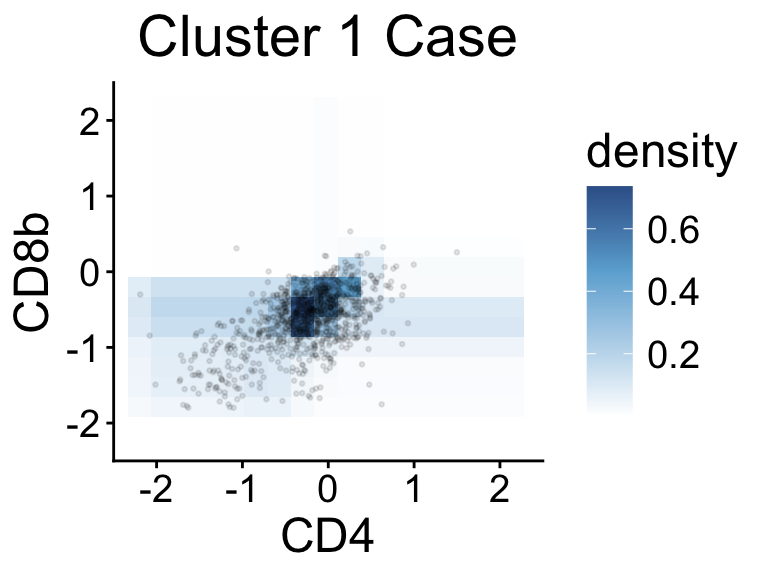
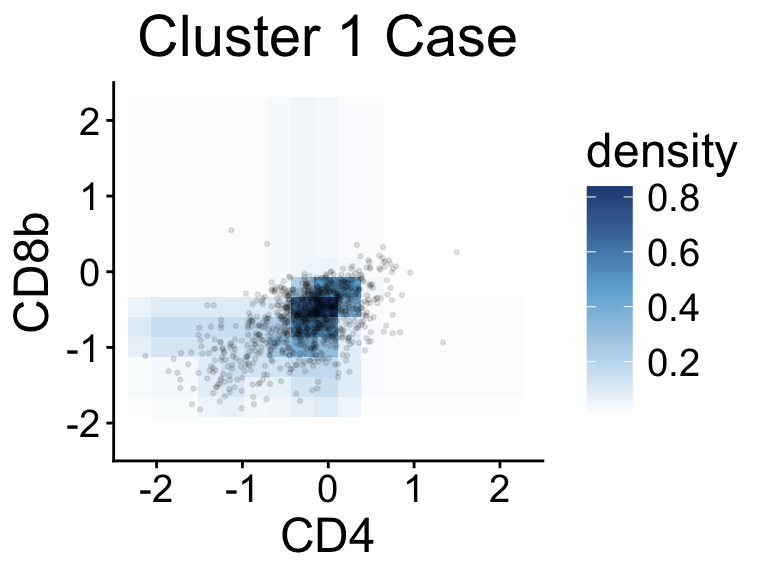
knit gvhd file

Changed region(s): [[0.1562, 0.4375, 0.6875, 0.75], [0.8438, 0.3125, 0.9062, 0.5625], [0.8438, 0.5938, 0.9062, 0.6562]]

diff --git a/GvHD.html b/GvHD.html
@@ -142,7 +142,7 @@ window.Quarto = {
 </div>
 <p>We compute the adaptive Beta-trees histogram at 80% confidence level for the GvHD positive and control individuals. We set a seed to keep our results consistent.</p>
 <div class="cell">
-<div class="sourceCode cell-code" id="cb3"><pre class="sourceCode r code-with-copy"><code class="sourceCode r"><span id="cb3-1"><a href="#cb3-1" aria-hidden="true" tabindex="-1"></a><span class="fu">set.seed</span>(<span class="dv">20</span>)</span></code><button title="Copy to Clipboard" class="code-copy-button"><i class="bi"></i></button></pre></div>
+<div class="sourceCode cell-code" id="cb3"><pre class="sourceCode r code-with-copy"><code class="sourceCode r"><span id="cb3-1"><a href="#cb3-1" aria-hidden="true" tabindex="-1"></a><span class="fu">set.seed</span>(<span class="dv">220</span>)</span></code><button title="Copy to Clipboard" class="code-copy-button"><i class="bi"></i></button></pre></div>
 </div>
 <div class="cell">
 <div class="sourceCode cell-code" id="cb4"><pre class="sourceCode r code-with-copy"><code class="sourceCode r"><span id="cb4-1"><a href="#cb4-1" aria-hidden="true" tabindex="-1"></a>alpha <span class="ot">&lt;-</span> <span class="fl">0.2</span></span>
@@ -177,7 +177,9 @@ window.Quarto = {
 </div>
 <div class="sourceCode cell-code" id="cb8"><pre class="sourceCode r code-with-copy"><code class="sourceCode r"><span id="cb8-1"><a href="#cb8-1" aria-hidden="true" tabindex="-1"></a><span class="fu">print</span>(case_lower)</span></code><button title="Copy to Clipboard" class="code-copy-button"><i class="bi"></i></button></pre></div>
 <div class="cell-output cell-output-stdout">
-<pre><code>[1] -0.36 -0.67 -0.79 -0.71</code></pre>
+<pre><code>      [,1]  [,2]  [,3]  [,4]
+[1,] -0.36 -0.64 -0.45 -0.46
+[2,]  0.00  0.16  0.23 -0.02</code></pre>
 </div>
 <div class="sourceCode cell-code" id="cb10"><pre class="sourceCode r code-with-copy"><code class="sourceCode r"><span id="cb10-1"><a href="#cb10-1" aria-hidden="true" tabindex="-1"></a><span class="fu">cat</span>(<span class="st">"Case upper:</span><span class="sc">\n</span><span class="st">"</span>)</span></code><button title="Copy to Clipboard" class="code-copy-button"><i class="bi"></i></button></pre></div>
 <div class="cell-output cell-output-stdout">
@@ -185,7 +187,9 @@ window.Quarto = {
 </div>
 <div class="sourceCode cell-code" id="cb12"><pre class="sourceCode r code-with-copy"><code class="sourceCode r"><span id="cb12-1"><a href="#cb12-1" aria-hidden="true" tabindex="-1"></a><span class="fu">print</span>(case_upper)</span></code><button title="Copy to Clipboard" class="code-copy-button"><i class="bi"></i></button></pre></div>
 <div class="cell-output cell-output-stdout">
-<pre><code>[1] -0.03 -0.39 -0.43 -0.46</code></pre>
+<pre><code>     [,1]  [,2]  [,3]  [,4]
+[1,] 0.00 -0.42 -0.17 -0.22
+[2,] 2.99  0.31  0.43  0.21</code></pre>
 </div>
 <div class="sourceCode cell-code" id="cb14"><pre class="sourceCode r code-with-copy"><code class="sourceCode r"><span id="cb14-1"><a href="#cb14-1" aria-hidden="true" tabindex="-1"></a><span class="fu">cat</span>(<span class="st">"Control lower: </span><span class="sc">\n</span><span class="st">"</span>)</span></code><button title="Copy to Clipboard" class="code-copy-button"><i class="bi"></i></button></pre></div>
 <div class="cell-output cell-output-stdout">
@@ -194,9 +198,9 @@ window.Quarto = {
 <div class="sourceCode cell-code" id="cb16"><pre class="sourceCode r code-with-copy"><code class="sourceCode r"><span id="cb16-1"><a href="#cb16-1" aria-hidden="true" tabindex="-1"></a><span class="fu">print</span>(control_lower)</span></code><button title="Copy to Clipboard" class="code-copy-button"><i class="bi"></i></button></pre></div>
 <div class="cell-output cell-output-stdout">
 <pre><code>      [,1]  [,2]  [,3]  [,4]
-[1,]  0.32  1.11 -1.42 -0.40
-[2,] -2.26 -1.82 -1.24 -0.35
-[3,] -1.05  0.47 -0.58 -1.54</code></pre>
+[1,] -0.14  0.75 -1.42 -0.67
+[2,] -2.26 -1.82 -0.96 -0.35
+[3,] -1.52 -1.82 -1.42  0.18</code></pre>
 </div>
 <div class="sourceCode cell-code" id="cb18"><pre class="sourceCode r code-with-copy"><code class="sourceCode r"><span id="cb18-1"><a href="#cb18-1" aria-hidden="true" tabindex="-1"></a><span class="fu">cat</span>(<span class="st">"Control upper:</span><span class="sc">\n</span><span class="st">"</span>)</span></code><button title="Copy to Clipboard" class="code-copy-button"><i class="bi"></i></button></pre></div>
 <div class="cell-output cell-output-stdout">
@@ -205,12 +209,12 @@ window.Quarto = {
 <div class="sourceCode cell-code" id="cb20"><pre class="sourceCode r code-with-copy"><code class="sourceCode r"><span id="cb20-1"><a href="#cb20-1" aria-hidden="true" tabindex="-1"></a><span class="fu">print</span>(control_upper)</span></code><button title="Copy to Clipboard" class="code-copy-button"><i class="bi"></i></button></pre></div>
 <div class="cell-output cell-output-stdout">
 <pre><code>      [,1]  [,2]  [,3]  [,4]
-[1,]  0.57  1.37 -0.30 -0.17
-[2,] -1.05 -0.97 -1.03 -0.13
-[3,] -0.46  0.79 -0.25 -0.35</code></pre>
+[1,]  0.21  0.92 -0.50 -0.35
+[2,] -1.72 -0.51 -0.51 -0.06
+[3,] -1.22  0.63 -0.31  0.45</code></pre>
 </div>
 </div>
-<p>We identified two modes from the sample from GvHD positive individual, one at CD3+CD8b+CD4+, which corresponds to the finding in the paper. The second cluster correspond to CD3-CD8b-CD4-CD8-, which seems to correspond to the second and third the clusters of samples of the control individual. We now visualize the two histograms at the two clusters from GvHD patient corresponding to <code>CD3&gt;0, CD8&gt;0</code> and <code>CD3&lt;0, CD8&lt;0</code>. We visualize the two bio-markers <code>CD4</code> and <code>CD8b</code>.</p>
+<p>We identified two modes from the sample from GvHD positive individual, one at CD3+CD8b+CD4+, which corresponds to the finding in the paper. The second cluster correspond to CD3-CD8b-CD4-CD8-, which seems to correspond to the second clusters of samples of the control individual. We now visualize the two histograms at the two clusters from GvHD patient corresponding to <code>CD3&gt;0, CD8&gt;0</code> and <code>CD3&lt;0, CD8&lt;0</code>. We visualize the two bio-markers <code>CD4</code> and <code>CD8b</code>.</p>
 <div class="cell">
 <div class="sourceCode cell-code" id="cb22"><pre class="sourceCode r code-with-copy"><code class="sourceCode r"><span id="cb22-1"><a href="#cb22-1" aria-hidden="true" tabindex="-1"></a><span class="co"># CD3 &lt; 0 and CD8 &lt; 0</span></span>
 <span id="cb22-2"><a href="#cb22-2" aria-hidden="true" tabindex="-1"></a>plot_data_pos_1 <span class="ot">&lt;-</span> <span class="fu">plot_histogram_data</span>(GvHD.pos.scaled, </span>
@@ -339,6 +343,10 @@ window.Quarto = {
 <p><img src="GvHD_files/figure-html/plot-1.png" class="img-fluid quarto-figure quarto-figure-center figure-img" width="384"></p>
 </figure>
 </div>
+</div>
+<div class="cell-output cell-output-stderr">
+<pre><code>Warning: Removed 2 rows containing missing values or values outside the scale range
+(`geom_point()`).</code></pre>
 </div>
 <div class="cell-output-display">
 <div class="quarto-figure quarto-figure-center">
